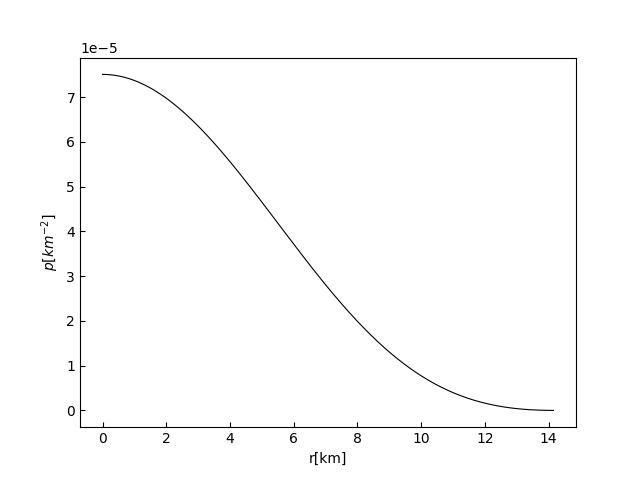
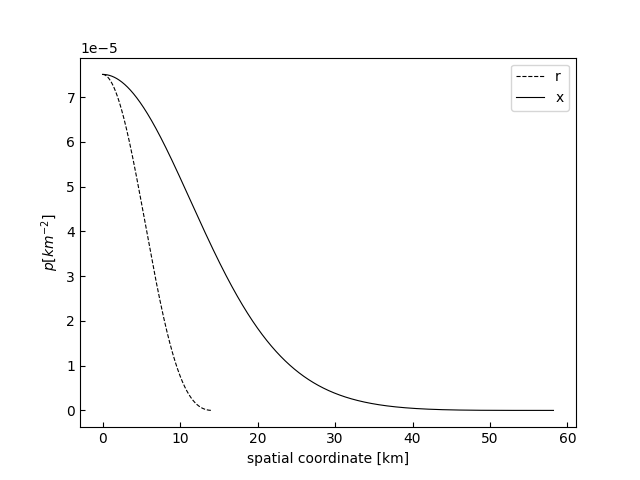
re did the plots to include also the x_coordinates for the density, pressure, mass, sound speed. All this changes where made from the ReadPython.py file

diff --git a/ReadPython.py b/ReadPython.py
@@ -1,121 +1,27 @@
 #!/usr/bin/python
-
-import matplotlib.pyplot as plt
 import numpy as np
-import pylab as pylab
+import matplotlib.pyplot as plt
 import sys
 
+fileName = sys.argv[1] 
+fileName2 = sys.argv[2]
+r, e1, m1, P1, Cs1 = np.loadtxt(fileName, unpack=True)
+x, e, m, P, Cs = np.loadtxt(fileName2, unpack=True)
+#print(r, e1, m1, P1, Cs)
+def Plots(x1, y1, x2, y2, yLabel, TYPE):
+    # Plot the first graph
+    plt.plot(x1, y1, 'k--', linewidth = 0.8, label = 'r')
+    # Overlay the second graph, adjusted to align with the first plot's x-axis
+    plt.plot(x2, y2, 'k', linewidth = 0.8, label = 'x')
+    plt.xlabel('spatial coordinate [km]')
+    plt.ylabel(yLabel)
+    plt.tick_params(axis = 'both', direction = 'in', which = 'both')
+    plt.legend()
+    plt.savefig('Plots/PLOT_for_'+TYPE+'.png')
+    plt.show()
+   
 
-FrameFile = sys.argv[1]
-FrameFile2 = sys.argv[2]
-print(FrameFile, FrameFile2)
-values1 = [];
-values2 = [];
-values3 = [];
-values4 = [];
-values5 = [];
-values6 = [];
-values7 = [];
-values8 = [];
-values9 = []
-values1,values2,values3,values4,values5,values6,values7,values8,values9 = np.loadtxt(FrameFile, unpack = True)
-
-values11 = [];
-values12 = [];
-values13 = [];
-values14 = [];
-values15 = [];
-values16 = [];
-values17 = [];
-values18 = [];
-values19 = []
-values11,values12,values13,values14,values15,values16,values17,values18,values19 = np.loadtxt(FrameFile2, unpack = True)
-#plt.plot(np.array(values1), np.array(values5))
-#plt.show()
-fig, axs = plt.subplots(nrows = 4, ncols = 2, figsize = (7, 7))
-
-# plot time signal: #axs[0, 0].set_title("")
-axs[0, 0].plot(
-    np.array(values1),
-    np.array(values3),
-    'o',
-    ms = 0.5,
-    label = 'T1'
-)
-axs[0, 0].plot(np.array(values1), np.array(values13), label = 'T2')
-axs[0, 0].set_xlabel("R(km)")
-axs[0, 0].set_ylabel(r"$e$")
-axs[0, 0].legend()
-# plot different spectrum types: #axs[1, 0].set_title("Magnitude Spectrum")
-axs[0, 1].plot(
-    np.array(values1),
-    np.array(values4),
-    'o',
-    ms = 0.5,
-    label = 'T1'
-)
-axs[0, 1].plot(np.array(values1), np.array(values14), label = 'T2')
-axs[0, 1].set_xlabel("R(km)")
-axs[0, 1].set_ylabel(r"$p$")
-axs[0, 1].legend()
-#axs[1, 1].set_title("Log. Magnitude Spectrum")
-axs[1, 0].plot(
-    np.array(values1),
-    np.array(values5),
-    'o',
-    ms = 0.5,
-    label = 'T1'
-)
-axs[1, 0].plot(np.array(values1), np.array(values15), label = 'T2')
-axs[1, 0].set_xlabel("R(km)")
-axs[1, 0].set_ylabel(r"$\lambda$")
-axs[1, 0].legend()
-#axs[2, 0].set_title("Phase Spectrum ")
-axs[1, 1].plot(
-    np.array(values1),
-    np.array(values6),
-    'o',
-    ms = 0.5,
-    label = 'T1'
-)
-axs[1, 1].plot(np.array(values1), np.array(values16), label = 'T2')
-axs[1, 1].set_xlabel("R(km)")
-axs[1, 1].set_ylabel(r"$\nu$")
-axs[1, 1].legend()
-#axs[2, 1].set_title("Angle Spectrum")
-axs[2, 0].plot(
-    np.array(values1),
-    np.array(values7),
-    'o',
-    ms = 0.5,
-    label = 'T1'
-)
-axs[2, 0].plot(np.array(values1), np.array(values17), label = 'T2')
-axs[2, 0].set_xlabel("R(km)")
-axs[2, 0].set_ylabel(r"$\nu^{'}$")
-axs[2, 0].legend()
-axs[2, 1].plot(
-    np.array(values1),
-    np.array(values8),
-    'o',
-    ms = 0.5,
-    label = 'T1'
-)
-axs[2, 1].plot(np.array(values1), np.array(values18), label = 'T2')
-axs[2, 1].set_xlabel("R(km)")
-axs[2, 1].set_ylabel(r"$\lambda^{'}$")
-axs[2, 1].legend()
-axs[3, 0].plot(
-    np.array(values1),
-    np.array(values9),
-    'o',
-    ms = 0.5,
-    label = 'T1'
-)
-axs[3, 0].plot(np.array(values1), np.array(values19), label = 'T2')
-axs[3, 0].set_xlabel("R(km)")
-axs[3, 0].set_ylabel(r"$c_s$")
-axs[3, 0].legend()
-fig.tight_layout()
-plt.show()
-
+Plots(r, e1, x, e, r"$\rho[km^{-2}]$", 'e')
+Plots(r, m1, x, m, r"$M[km]$", 'm')
+Plots(r, P1, x, P, r"$p[km^{-2}]$", 'P')
+Plots(r, Cs1, x, Cs,  r"$C_s$", 'Cs')

diff --git a/main.cpp b/main.cpp
@@ -30,8 +30,10 @@ int main(int argc, char *argv[]) {
 		storage.updateValues(0, 0.0, Var::P_c, 0.0, EPSILON, -(log(1 - 2 * 0.0 / EPSILON)) / 2, std::pow(Var::P_c / Var::K, 1.0 / Var::Gamma) + Var::P_c / (Var::Gamma - 1), 0.0, 0.0, EPSILON);
 		int LastIndex1 = tovEquation.ExecTOVxCoord(storage);
 		outputFile.coordinateOutPut(i, LastIndex1, storage, "x");
+		outputFile.coordinateOutPut2(i, LastIndex1, storage, "x");
 		int LastIndex2 = tovEquation.ExecTOVrCoord(storage);
 		outputFile.coordinateOutPut(i, LastIndex2, storage, "r");
+		outputFile.coordinateOutPut2(i, LastIndex2, storage, "r");
 	
 	}
 
